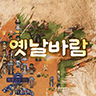
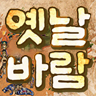
Add files via upload

diff --git a/index.html b/index.html
@@ -138,17 +138,59 @@
         }
 
         .main {
-            position: fixed;
-            height: 40px;
-            border-radius: 10px;
-            left: 20px;
-        }
+    position: fixed;
+    height: 40px;
+    width: 40px; /* height와 동일하게 설정 */
+    border-radius: 20%;
+    z-index: 2; /* 이미지가 애니메이션 뒤에 묻히지 않도록 */
+}
+
+a.glow-border {
+    position: fixed;
+    display: inline-block;
+    height: 40px;
+    width: 40px; /* height에 맞춘 width */
+    border-radius: 20%;
+    background: conic-gradient(from var(--angle), rgb(255, 255, 255, 0.7), rgb(255, 182, 46), gold);
+    background-origin: border-box;
+    background-clip: padding-box; /* 테두리에만 배경 표시 */
+    box-sizing: border-box; /* padding이 크기에 영향을 미치지 않도록 */
+    padding: 3px; /* 테두리 두께 조정 */
+    z-index: 1; /* 이미지보다 뒤에 배치 */
+    animation: rotate 2s linear infinite;
+}
+
+a.glow-border img {
+    display: block;
+    width: 100%; /* 부모의 크기에 맞춤 */
+    height: 100%; /* 부모의 크기에 맞춤 */
+    border-radius: inherit; /* 부모와 동일한 둥근 모서리 */
+    position: relative;
+    z-index: 2; /* 배경보다 위에 표시 */
+}
+
+/* 애니메이션 정의 */
+@property --angle {
+    syntax: "<angle>";
+    initial-value: 0deg;
+    inherits: false;
+}
+
+@keyframes rotate {
+    0% {
+        --angle: 0deg;
+    }
+    100% {
+        --angle: 360deg;
+    }
+}
+
     </style>
 </head>
 <body>
 
     <header id="header">
-        <a href="https://discord.gg/classicbaram" target="_blank" onclick="event.stopPropagation();">
+        <a href="https://discord.gg/classicbaram" target="_blank" onclick="event.stopPropagation();" class="glow-border">
             <img src="favi.png" class="main">
         </a>
         <div class="control-panel">
